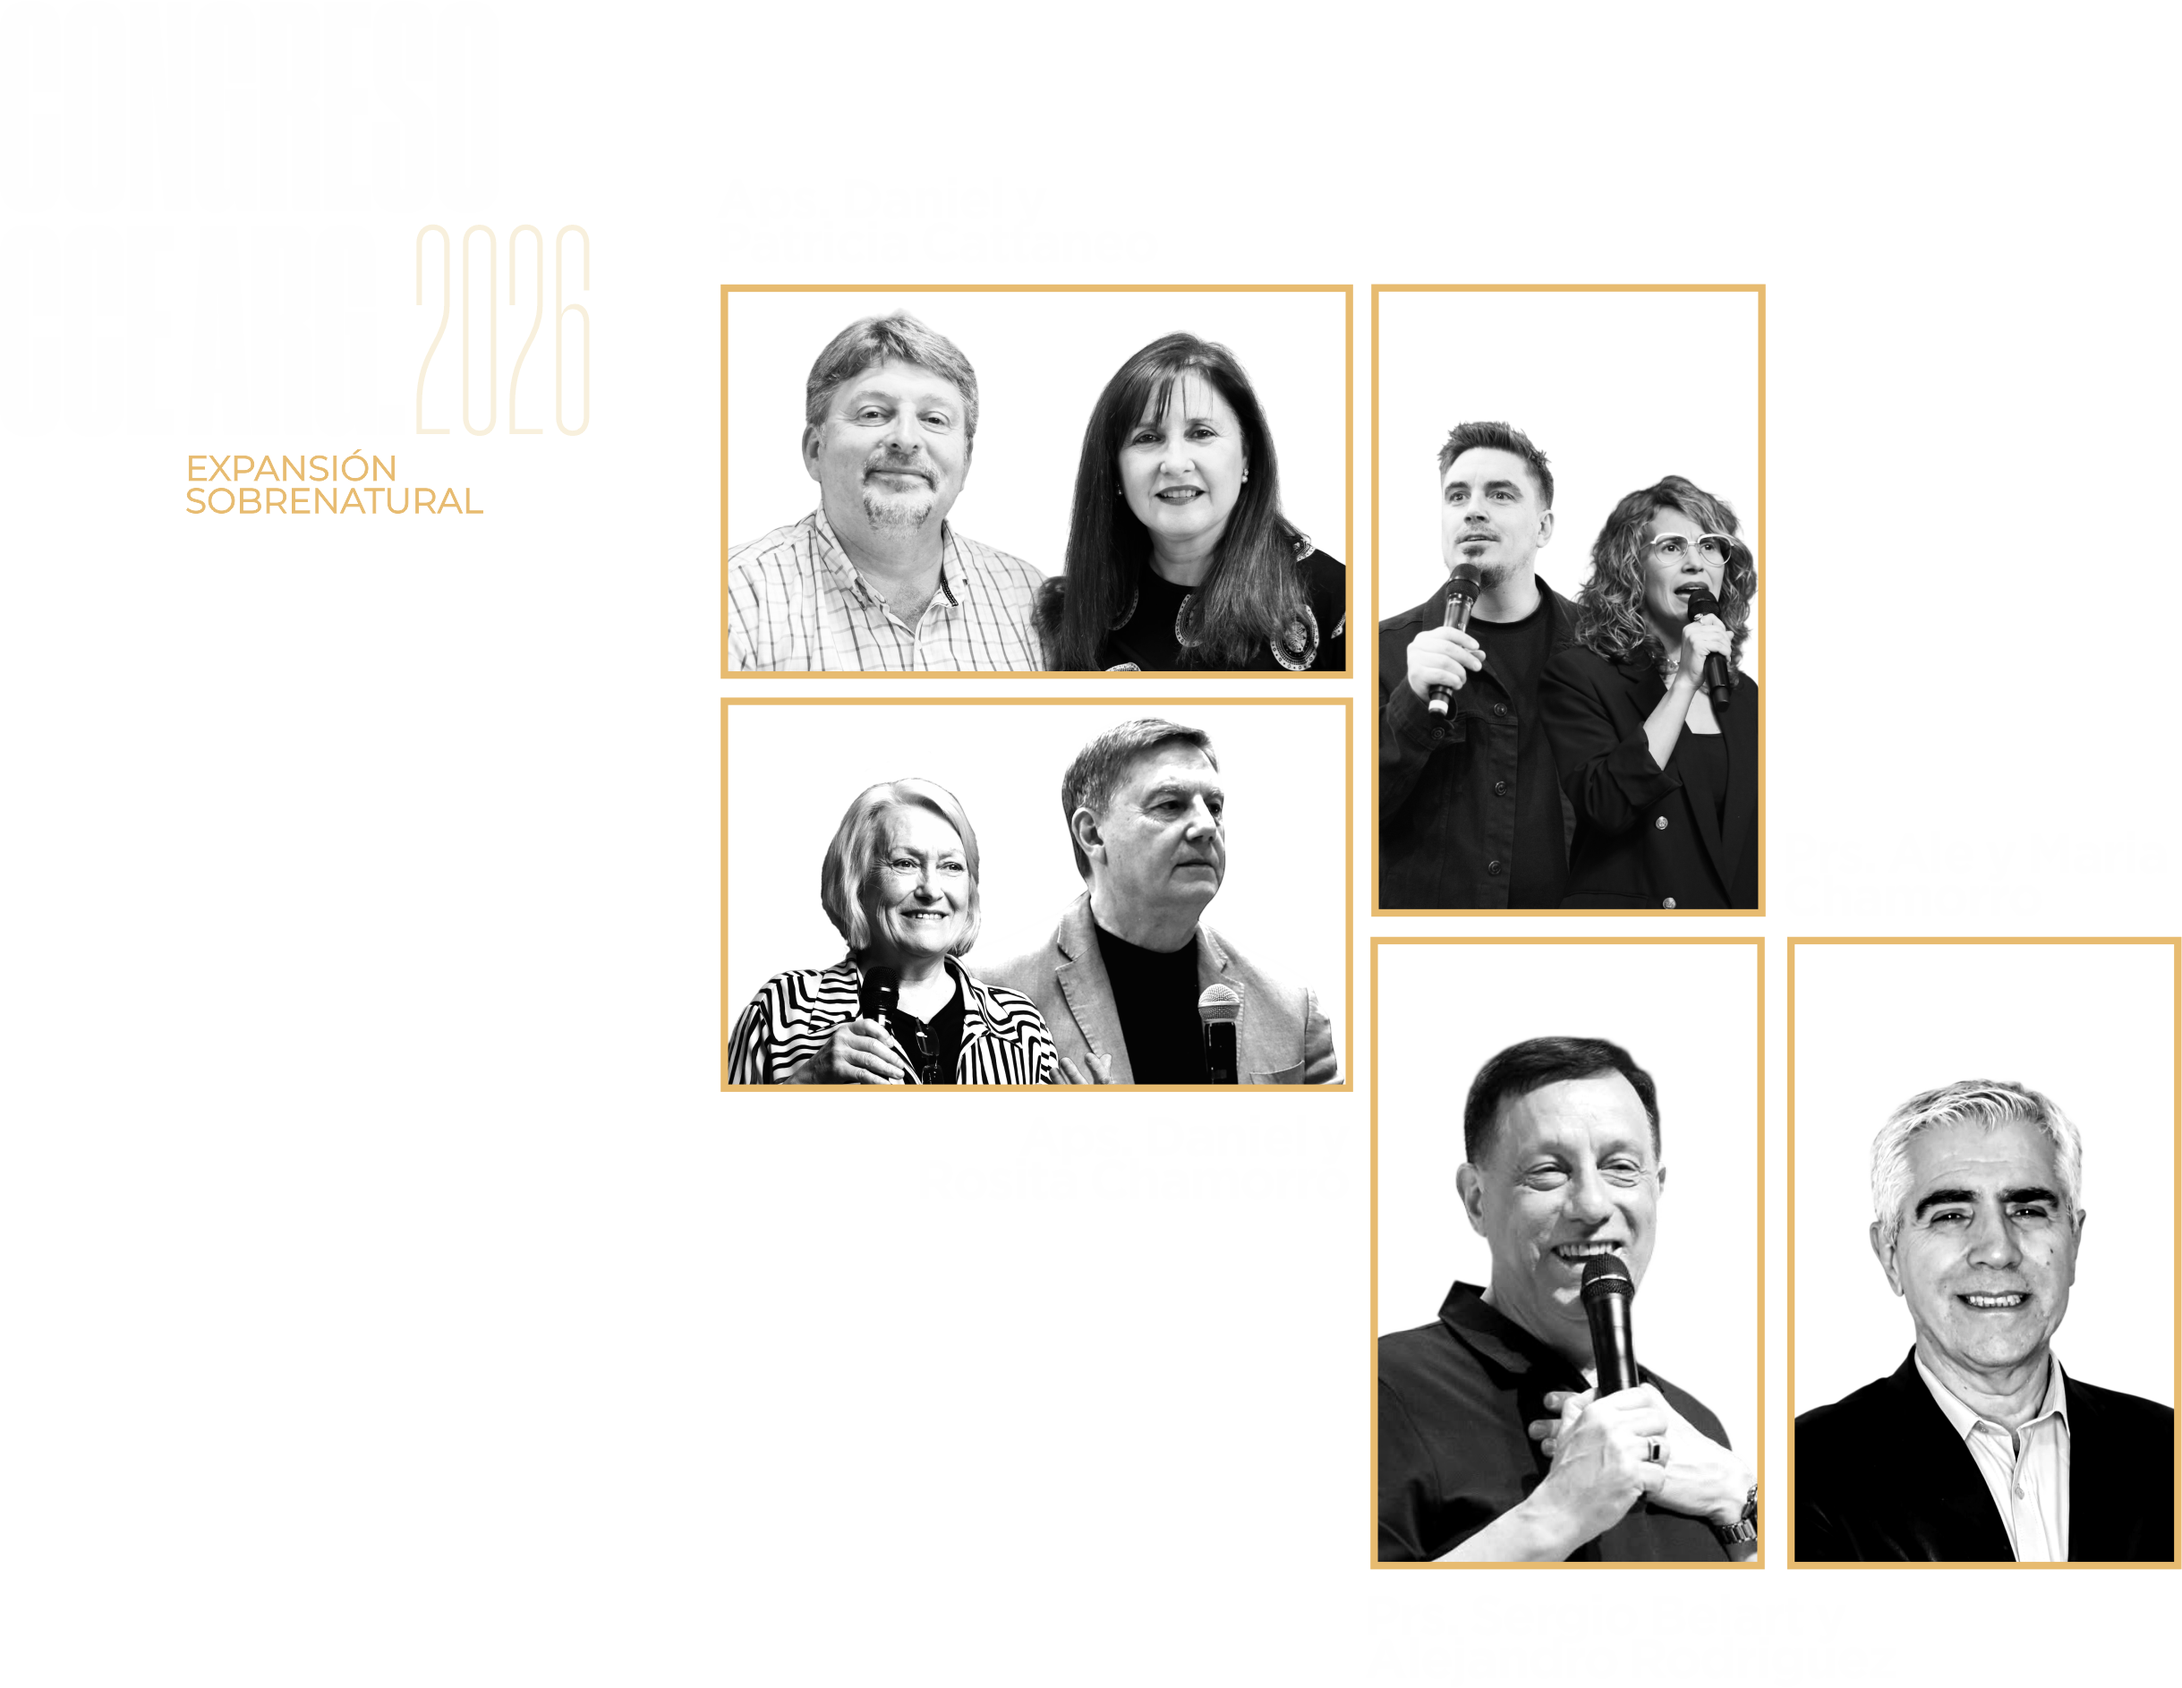
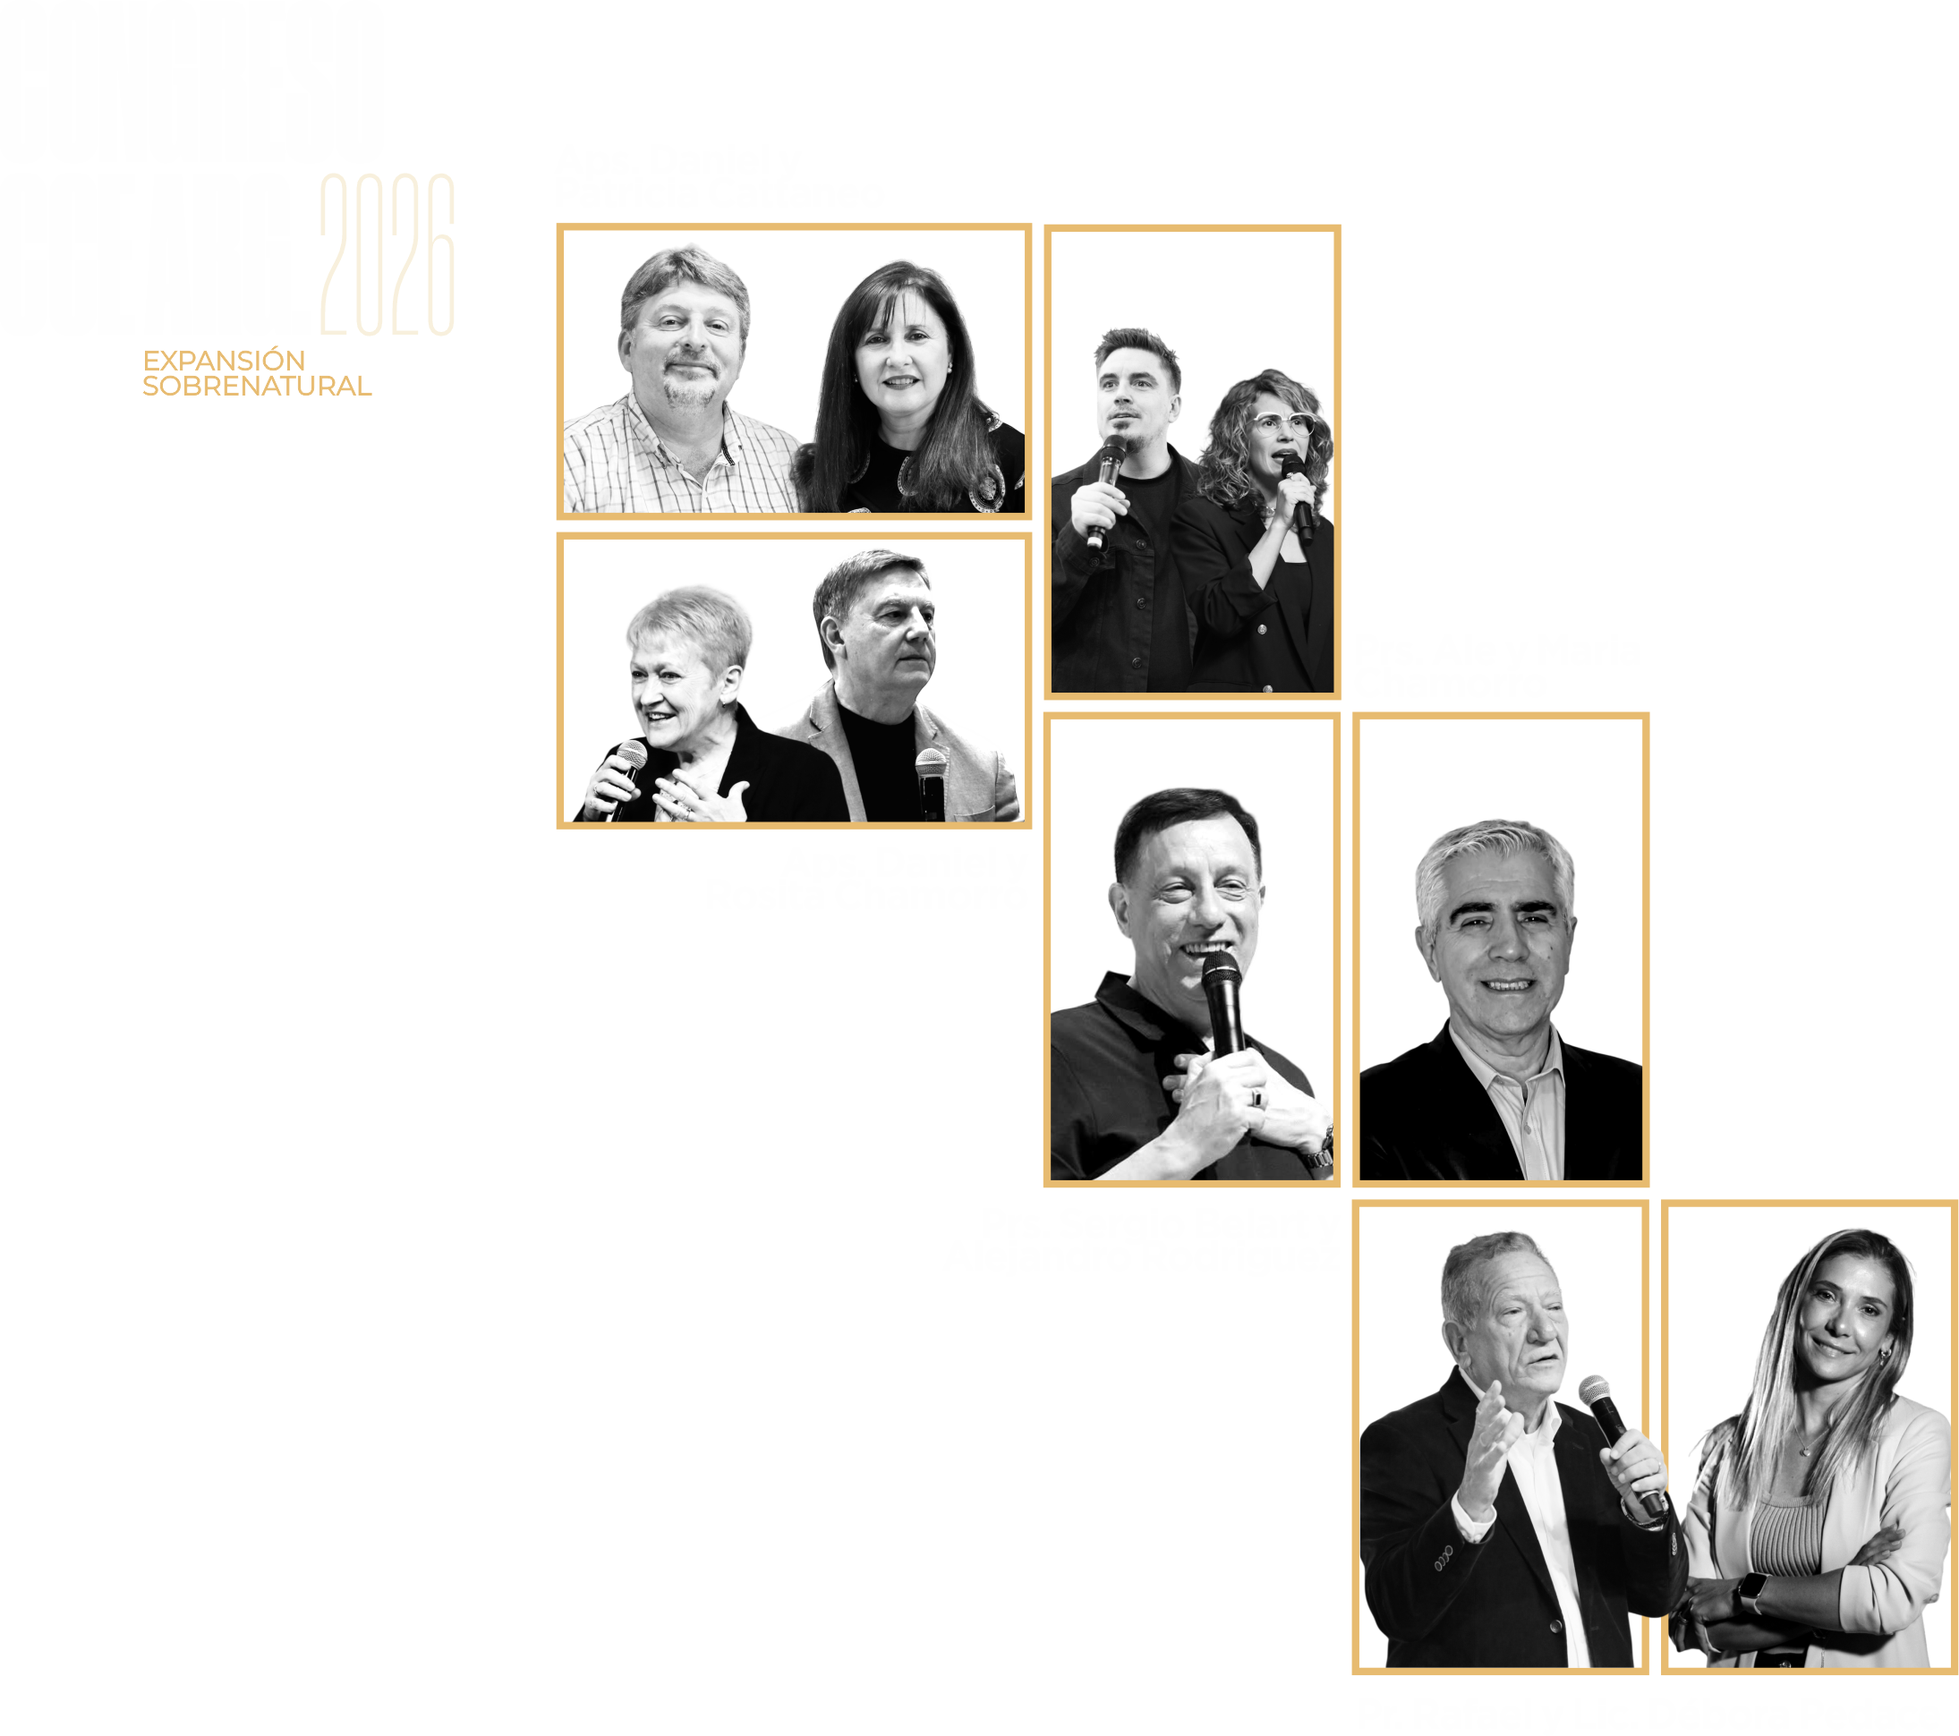
feat(oradores): update desktop puzzle, remap clickable areas, adjust golden curve
- Replace desktop puzzle image with 7-speaker version
- Remap clickable areas for both mobile and desktop with pixel-precise coordinates
- Shift golden animated curve left and reduce stroke width 10%

Changed region(s): [[0.0621, 0.0923, 1.0, 0.9841], [0.0932, 0.2768, 0.2175, 0.3075]]

diff --git a/src/components/oradores-puzzle.tsx b/src/components/oradores-puzzle.tsx
@@ -12,8 +12,8 @@ const oradores = [
     imagen: "/images/oradores/cattaneo.png",
     resena:
       "Pastor principal y apóstol de la Iglesia Redentor (Comunidad Redentor), fundada en 1945 en San Lorenzo, Santa Fe. Lidera una red de 16 templos en la provincia de Santa Fe. Reconocido por su creatividad e innovación ministerial, incluyendo iniciativas como la protesta 'culto-bar' durante la pandemia 2020. Ministerio integral: espiritual, emocional y físico.",
-    area: { left: 33.0, top: 16.8, width: 29.0, height: 23.4 },
-    areaMobile: { left: 2, top: 28, width: 46, height: 18 },
+    area: { left: 18.7, top: 3.5, width: 27.0, height: 19.1 },
+    areaMobile: { left: 1.8, top: 24.1, width: 41.5, height: 14.6 },
   },
   {
     id: "ale-maria",
@@ -21,8 +21,8 @@ const oradores = [
     imagen: "/images/oradores/ale-maria.png",
     resena:
       "Pastores del Centro Cristiano Esperanza en Plottier, Neuquén. Sirven en el ministerio pastoral de la iglesia madre del CCE, liderando la congregación local con pasión y entrega.",
-    area: { left: 62.8, top: 16.8, width: 18.0, height: 37.5 },
-    areaMobile: { left: 51, top: 25, width: 43, height: 22 },
+    area: { left: 47.5, top: 3.5, width: 22.4, height: 19.1 },
+    areaMobile: { left: 47.0, top: 21.8, width: 42.0, height: 16.5 },
   },
   {
     id: "daniel-rosita",
@@ -30,8 +30,8 @@ const oradores = [
     imagen: "/images/oradores/daniel-rosita.png",
     resena:
       "Fundadores del Centro Cristiano Esperanza en 1982, Plottier. Red apostólica con presencia en Argentina, España, Italia, EE.UU., India y África. Más de 40 años de ministerio pastoral. Obras pioneras: FM Esperanza (primera radio cristiana FM del país, 1988), instituciones educativas, centros de salud. Conferencistas internacionales.",
-    area: { left: 33.0, top: 41.3, width: 29.0, height: 23.3 },
-    areaMobile: { left: 2, top: 49, width: 46, height: 18 },
+    area: { left: 18.7, top: 24.5, width: 27.0, height: 19.1 },
+    areaMobile: { left: 1.8, top: 39.9, width: 41.5, height: 14.5 },
   },
   {
     id: "belart",
@@ -39,8 +39,8 @@ const oradores = [
     imagen: "/images/oradores/belart.png",
     resena:
       "Pastor de la Iglesia Cristiana 'Cita con la Vida' en Córdoba. Abogado (UNC). Director del Congreso Internacional de Jóvenes (Semana Santa, Córdoba, desde 1994). Lidera 'Jóvenes con Propósito' (5.000+ jóvenes). Conferencista internacional en más de 20 países. Autor de 'El Pastor de Jóvenes' y 'Generación de Relevo'.",
-    area: { left: 62.8, top: 55.5, width: 18.0, height: 37.5 },
-    areaMobile: { left: 27, top: 70, width: 36, height: 20 },
+    area: { left: 36.5, top: 46.1, width: 17.8, height: 21.4 },
+    areaMobile: { left: 26.6, top: 55.7, width: 24.8, height: 15.8 },
   },
   {
     id: "rodriguez",
@@ -48,17 +48,8 @@ const oradores = [
     imagen: "/images/oradores/rodriguez.png",
     resena:
       "Misionero y presidente de JUCUM Argentina (Juventud Con Una Misión), organización presente en 172 países. Junto a su esposa Martha refundó la obra de JUCUM Argentina en 1989. Ha formado y enviado cientos de misioneros transculturales. Conferencista en los 5 continentes. JUCUM Argentina cuenta con más de 700 obreros y múltiples bases.",
-    area: { left: 81.9, top: 55.5, width: 18.1, height: 37.5 },
-    areaMobile: { left: 66, top: 70, width: 30, height: 22 },
-  },
-  {
-    id: "debora-pedace",
-    nombre: "Lic. Débora Pedace",
-    imagen: "/images/oradores/debora-pedace.png",
-    resena:
-      "Psicóloga clínica y conferencista, directora del Centro Terapéutico Integral (CTI) en Argentina. Especializada en psicología preventiva, gestión de emociones, ansiedad y salud mental. Autora de 'Yo me cuido' y 'Selfcare Workbook'. Conduce el podcast 'Yo Me Cuido' y colabora en medios como Radio Perfil y Radio La Red. Utiliza plataformas digitales para difundir herramientas prácticas de bienestar emocional con un enfoque pedagógico y accesible.",
-    area: { left: 0, top: 55.5, width: 18.0, height: 37.5 },
-    areaMobile: { left: 2, top: 70, width: 22, height: 22 },
+    area: { left: 56.2, top: 46.1, width: 16.9, height: 21.4 },
+    areaMobile: { left: 53.4, top: 55.7, width: 23.7, height: 15.8 },
   },
   {
     id: "rafael-pedace",
@@ -66,8 +57,17 @@ const oradores = [
     imagen: "/images/oradores/rafael-pedace.png",
     resena:
       "Empresario y líder espiritual argentino. Fundador de TodoMúsica S.A. (1984), compañía líder en distribución de instrumentos musicales y equipos de sonido profesional, representando a más de 30 marcas internacionales. Contador Público y conferencista en foros de liderazgo y negocios. Integrante de la mesa ejecutiva de la Comunidad PEC (Profesionales y Empresarios Cristianos). Pastor y fundador del ministerio 'Una Vida Mejor' en Buenos Aires. Vicepresidente de Relaciones Externas de ACIERA.",
-    area: { left: 14, top: 16.8, width: 18.0, height: 37.5 },
-    areaMobile: { left: 2, top: 5, width: 46, height: 20 },
+    area: { left: 54.8, top: 69.6, width: 16.4, height: 26.3 },
+    areaMobile: { left: 47.0, top: 72.9, width: 22.7, height: 17.3 },
+  },
+  {
+    id: "debora-pedace",
+    nombre: "Lic. Débora Pedace",
+    imagen: "/images/oradores/debora-pedace.png",
+    resena:
+      "Psicóloga clínica y conferencista, directora del Centro Terapéutico Integral (CTI) en Argentina. Especializada en psicología preventiva, gestión de emociones, ansiedad y salud mental. Autora de 'Yo me cuido' y 'Selfcare Workbook'. Conduce el podcast 'Yo Me Cuido' y colabora en medios como Radio Perfil y Radio La Red. Utiliza plataformas digitales para difundir herramientas prácticas de bienestar emocional con un enfoque pedagógico y accesible.",
+    area: { left: 73.1, top: 69.6, width: 16.4, height: 26.3 },
+    areaMobile: { left: 71.2, top: 72.9, width: 22.7, height: 18.9 },
   },
 ];
 
@@ -159,10 +159,10 @@ export function OradoresPuzzle() {
           d="M3190.54 7829.2c5862.87,-2682.06 7942.95,-2561.9 8262.79,-2037.11 464.71,762.45 -3075.18,3341.58 -6537.99,7434.03 7626.8,-2329.01 11235.37,-4774.93 12305.66,-2218.89 1539.6,3676.86 -10353.84,9592.05 -15866.51,12241.84"
           pathLength={60000}
           stroke="var(--color-dorado)"
-          strokeWidth={1270}
+          strokeWidth={1143}
           viewBox="0 0 18718 28729.7"
           scrollRange={[0.25, 0.6]}
-          className="absolute -left-[30%] top-[58%] z-[1] h-[100%] pointer-events-none sm:top-[15%] md:top-[10%] sm:-left-[25%] md:-left-[10%]"
+          className="absolute -left-[40%] top-[58%] z-[1] h-[100%] pointer-events-none sm:top-[15%] md:top-[10%] sm:-left-[35%] md:-left-[26%]"
           svgClassName="h-[55%] w-auto opacity-90 sm:h-[100%] md:h-[120%]"
           preserveAspectRatio="xMinYMin meet"
         />
@@ -170,13 +170,13 @@ export function OradoresPuzzle() {
           {/* Desktop puzzle */}
           <motion.div
             className="relative hidden w-full md:block"
-            style={{ aspectRatio: "2438 / 1886", opacity, y }}
+            style={{ aspectRatio: "2189 / 1940", opacity, y }}
           >
             <Image
               src="/images/puzzle1.png"
               alt="Oradores del Congreso CCE 2026"
-              width={2438}
-              height={1886}
+              width={2189}
+              height={1940}
               className="h-auto w-full"
               priority
             />
@@ -199,13 +199,13 @@ export function OradoresPuzzle() {
           {/* Mobile puzzle */}
           <motion.div
             className="relative w-full md:hidden"
-            style={{ aspectRatio: "1638 / 2442", opacity, y }}
+            style={{ aspectRatio: "1570 / 2482", opacity, y }}
           >
             <Image
               src="/images/puzzle-movil.png"
               alt="Oradores del Congreso CCE 2026"
-              width={1638}
-              height={2442}
+              width={1570}
+              height={2482}
               className="h-auto w-full"
               priority
             />
